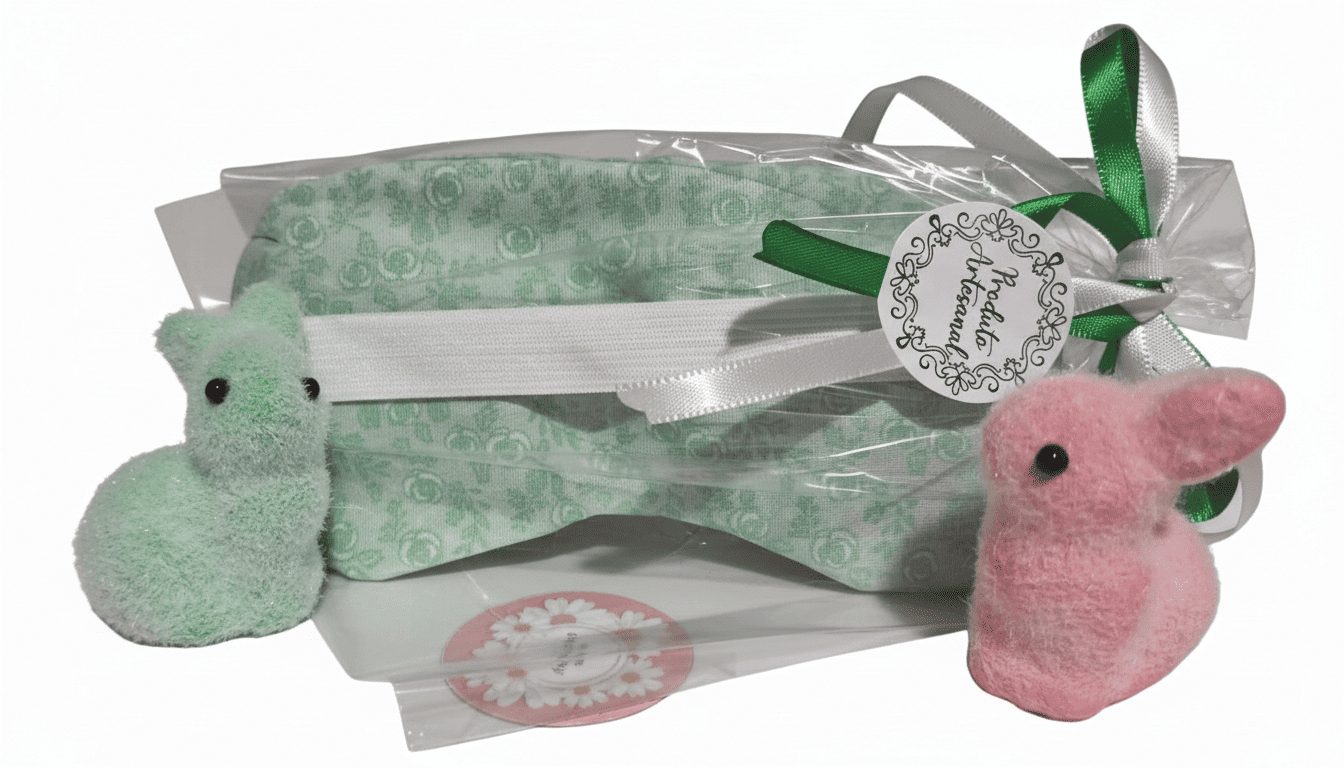
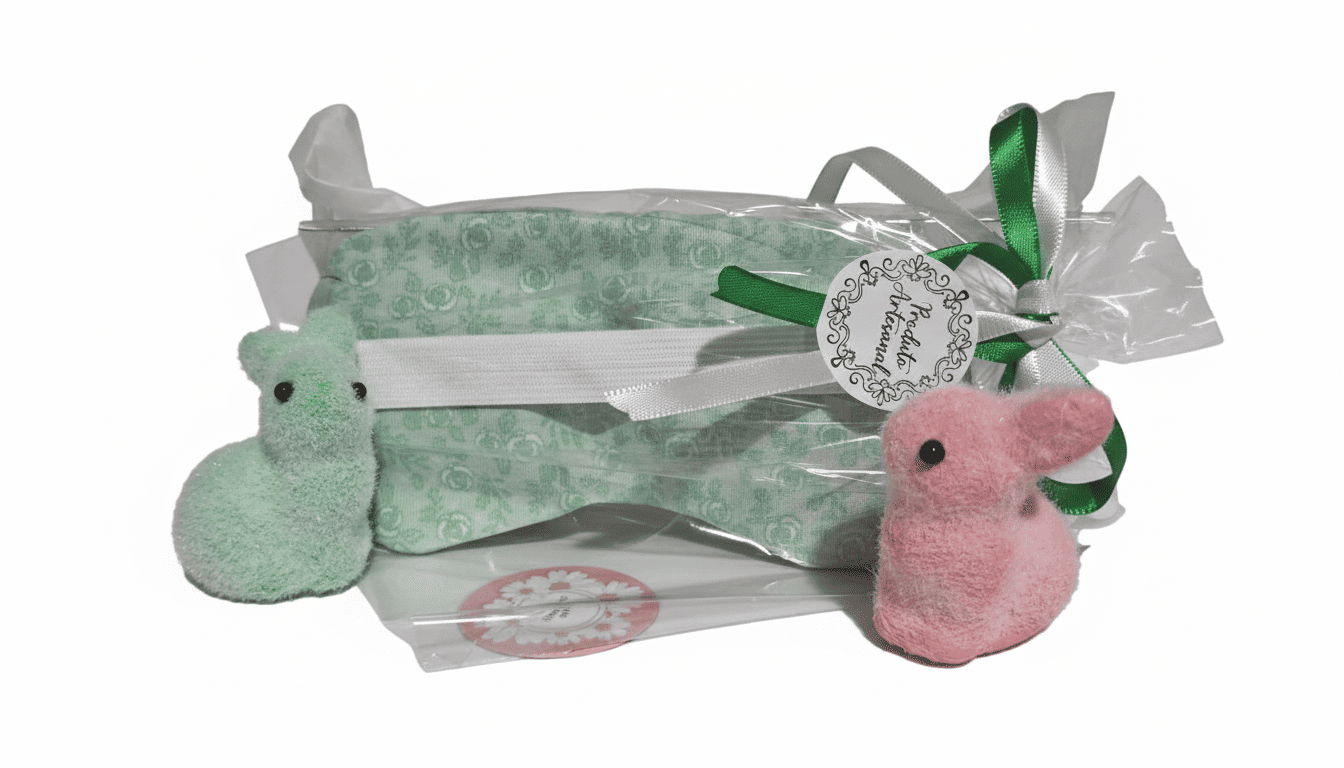
feat: Add "Saquinhos" category and "Saquinho da Ansiedade" product.

diff --git a/src/data/products.ts b/src/data/products.ts
@@ -5,8 +5,9 @@ import imgAlmofada from '../assets/produtosImg/Almofada térmica  fria ou quente
 import imgKit from '../assets/produtosImg/Kit mamãe bebê .png';
 import imgCesta from '../assets/produtosImg/Cesta de Páscoa .png';
 import imgMascaraKids from '../assets/produtosImg/Máscara  de ervas para criança.png';
+import imgSaquinho from '../assets/produtosImg/Saquinho da Ansiedade.png';
 
-export const categories = ["Todos", "Kits", "Travesseiros Terapêuticos", "Máscaras", "Almofadas"] as const;
+export const categories = ["Todos", "Kits", "Travesseiros Terapêuticos", "Máscaras", "Almofadas", "Saquinhos"] as const;
 
 export const products: Product[] = [
 
@@ -59,5 +60,13 @@ export const products: Product[] = [
     benefits: ["Acalma a criança", "Aroma suave", "Diminui a agitação"],
     icon: "eye-off", gradient: ["#B8A9C9", "#7E6B99"],
     image: imgMascaraKids
+  },
+  {
+    id: 13, name: "Saquinho da Ansiedade", category: "Saquinhos",
+    price: 30.00, shortDesc: "Calma e tranquilidade para carregar sempre com você.",
+    fullDesc: "Um saquinho terapêutico feito para carregar no bolso ou bolsa. Contém uma seleção especial de ervas calmantes para ajudar a aliviar a ansiedade e trazer uma sensação de paz quando necessário.",
+    benefits: ["Prático para carregar", "Aroma calmante", "Alívio da ansiedade"],
+    icon: "cloud", gradient: ["#A3D2A9", "#63996A"],
+    image: imgSaquinho
   }
 ];
